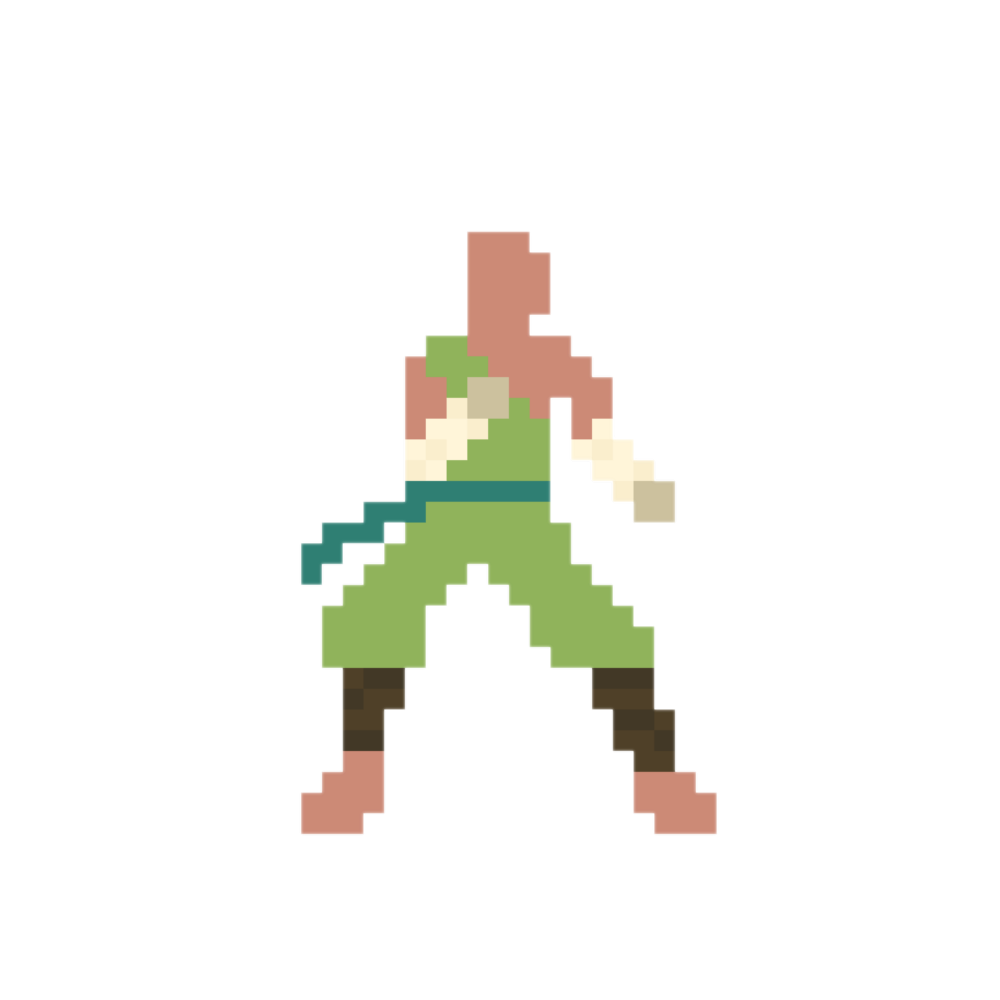
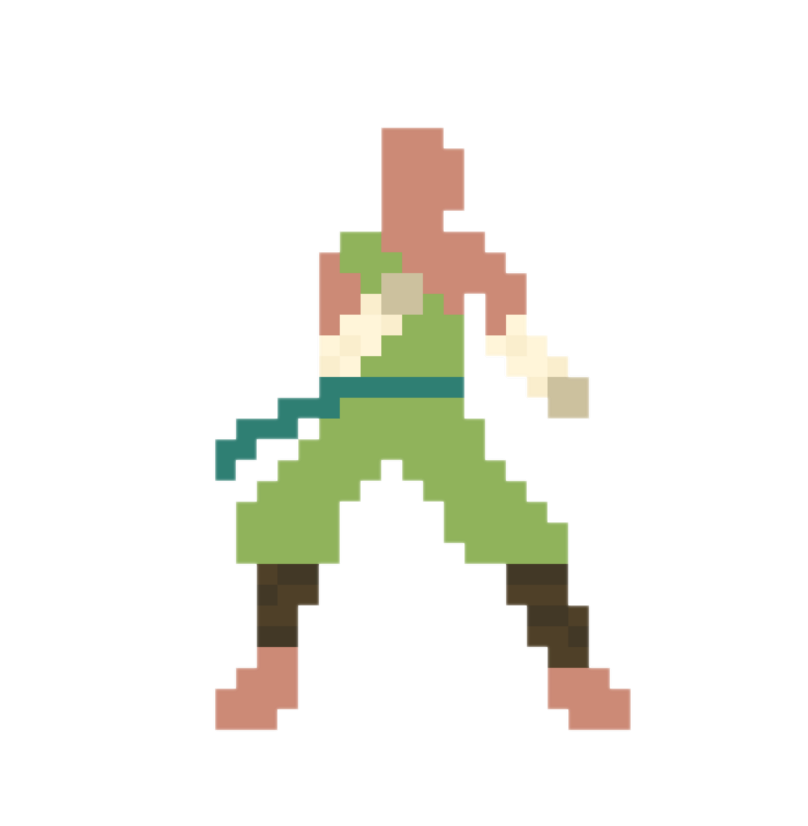
Added undead attack animation and added cropped version of orbyn's imgs so he is proper size

Changed region(s): [[0.2475, 0.1513, 0.8045, 0.908], [0.4332, 0.5448, 0.526, 0.6053]]

diff --git a/css/style.css b/css/style.css
@@ -207,6 +207,7 @@ span {
     align-items: center;
     padding-top: 0px;
     height: 700px;
+    border-top: none;
 }
 
 
@@ -244,7 +245,7 @@ button:hover {
     flex-direction: row;
     align-items: center;
     border: none;
-    border-bottom: 10px ridge var(--gold);
+    border: 10px ridge var(--gold);
     justify-content: space-around;
     margin-top: 0px;
     background-color: transparent;
@@ -500,7 +501,7 @@ footer {
     }
 }
 
-@media screen and (max-width: 450px) {
+@media screen and (max-width: 500px) {
     header {
         align-content: center;
 

diff --git a/js/constructors/monster.js b/js/constructors/monster.js
@@ -53,7 +53,7 @@ class Undead extends Monster {
     }
 }
 
-const undead = new Undead('Undead', 23, 23, 12, './assets/undead-static.png','./assets/undead-static.png', 1)
+const undead = new Undead('Undead', 23, 23, 12, './assets/undead-static.png','./assets/undead-attack.png', 1)
 
 //-----------------------------------------------
 
